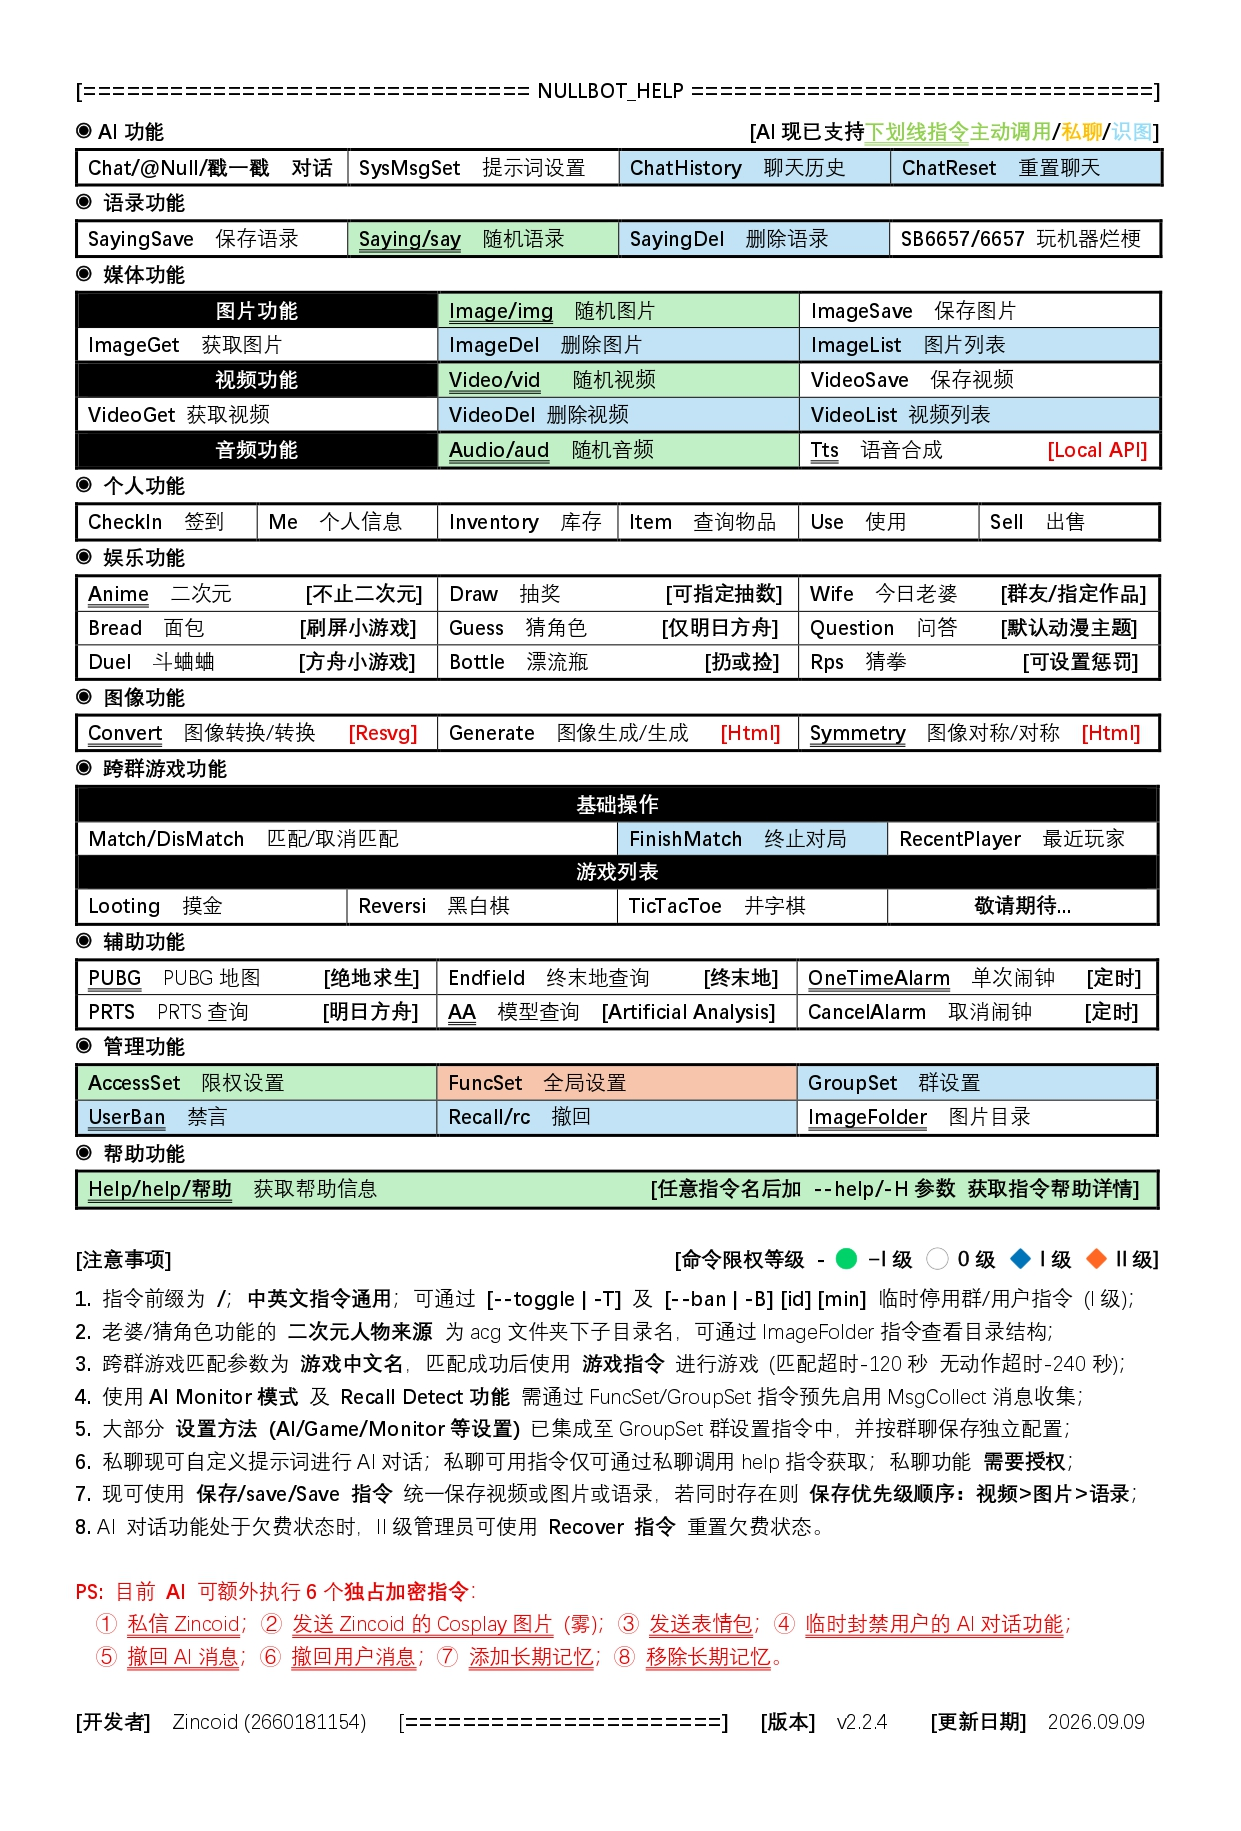
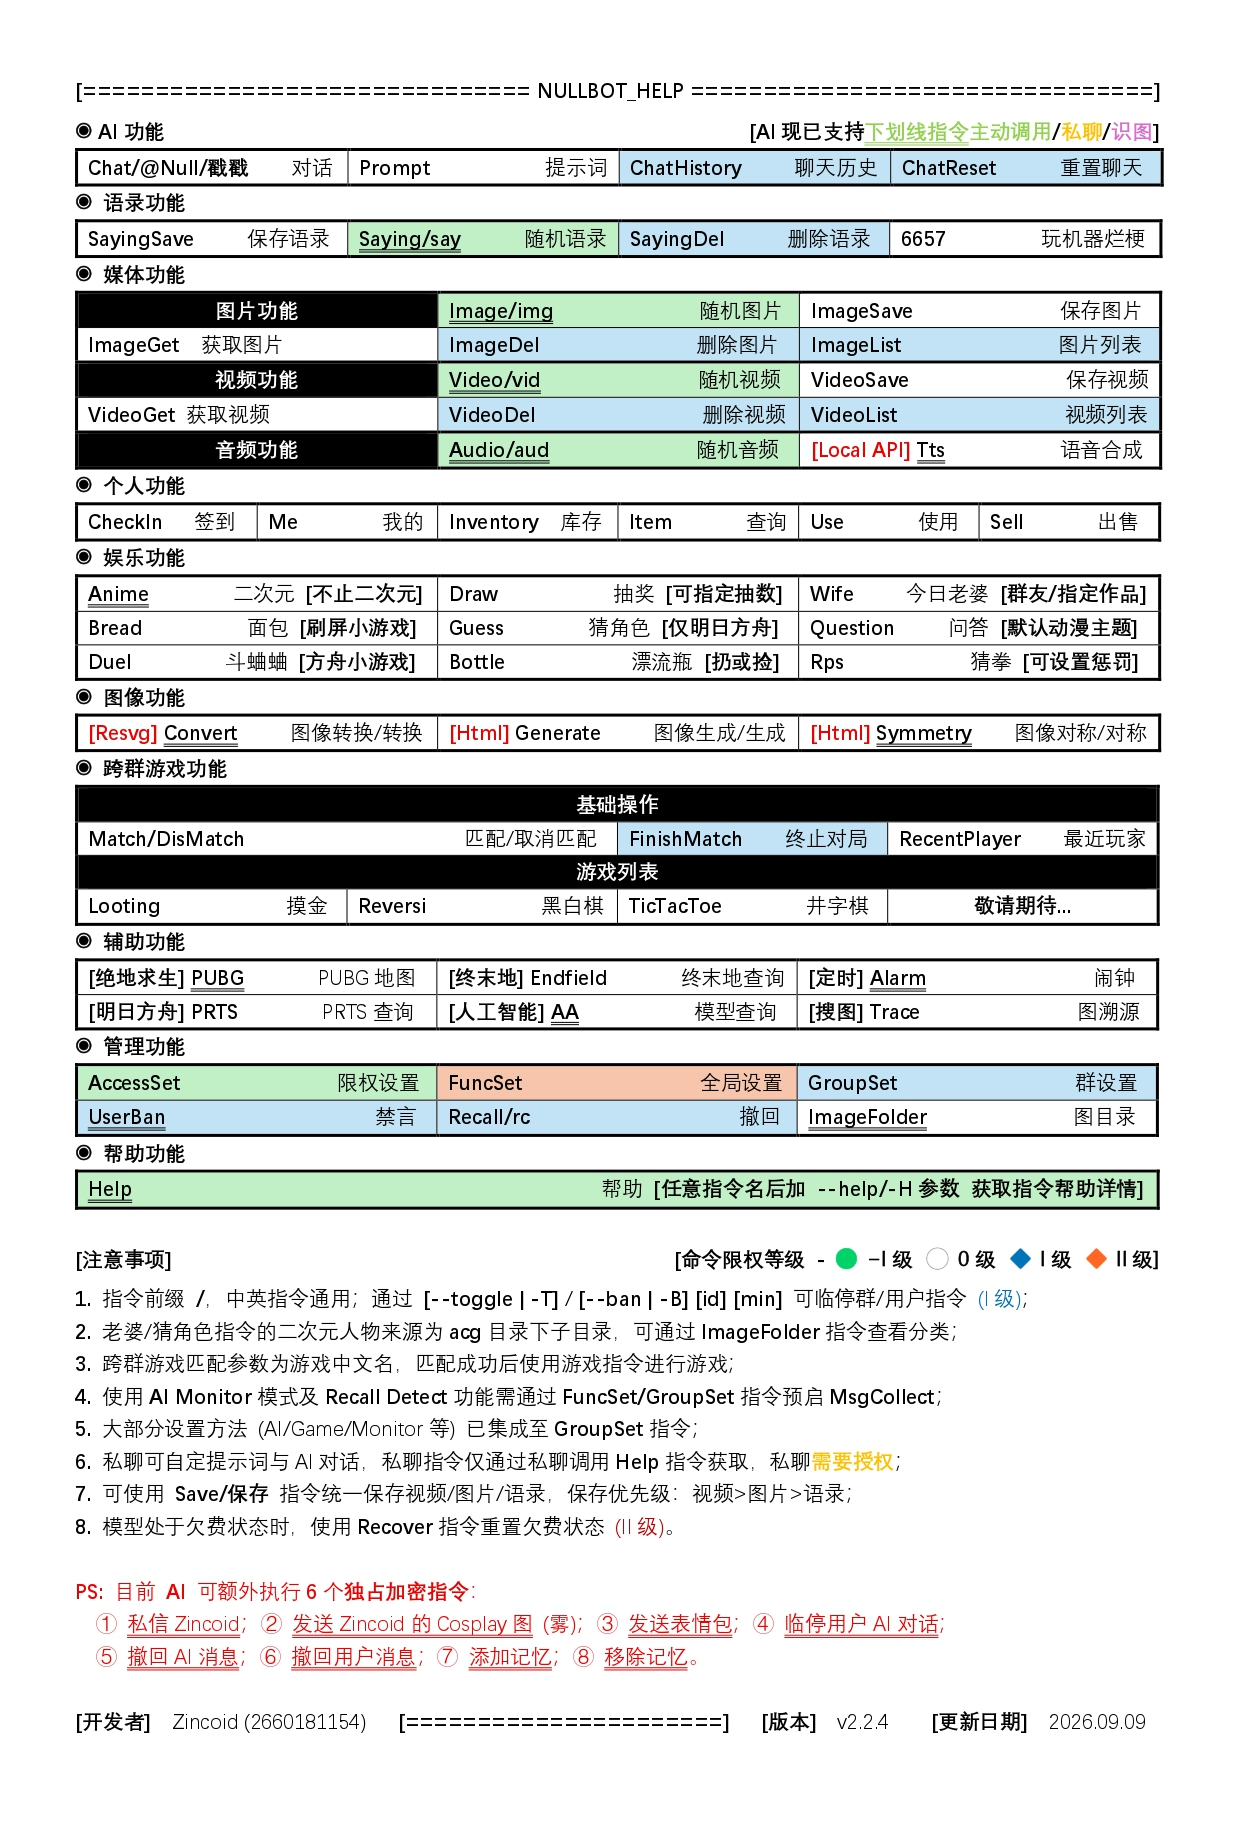
refactor(command): 重构命令结构和功能优化
- 将 OneTimeAlarmCmd 重命名为 AlarmCmd 并移动到 assist 包
- 将 HelpCmd 从 assist 包移动到 system 包
- 将 SysMsgSetCmd 重命名为 PromptCmd 并更新相关引用
- 更新多个命令的别名配置，包括 ImageFolder、ItemCmd、MeCmd 和 PUBGCmd
- 修改命令帮助信息中的功能描述和显示文本
- 调整 AI 提示词设置命令的包路径和类名
- 更新命令映射中对旧命令名称的引用

diff --git a/src/main/java/com/zincoid/nullbot/bot/command/aichat/PromptCmd.java b/src/main/java/com/zincoid/nullbot/bot/command/aichat/PromptCmd.java
@@ -16,15 +16,15 @@ import org.springframework.context.annotation.Lazy;
 import org.springframework.stereotype.Component;
 
 @Slf4j
-@CmdMapping({"SysMsgSet", "提示词设置", "提示词"})
+@CmdMapping({"Prompt", "提示词"})
 @Component
-public class SysMsgSetCmd implements Cmd {
+public class PromptCmd implements Cmd {
 
     private final QQChatClient qqChatClient;
     private final SysMsgManager sysMsgManager;
     private final UserService userService;
 
-    public SysMsgSetCmd(@Lazy QQChatClient qqChatClient, SysMsgManager sysMsgManager, UserService userService) {
+    public PromptCmd(@Lazy QQChatClient qqChatClient, SysMsgManager sysMsgManager, UserService userService) {
         this.qqChatClient = qqChatClient;
         this.sysMsgManager = sysMsgManager;
         this.userService = userService;
@@ -39,7 +39,7 @@ public class SysMsgSetCmd implements Cmd {
             String message = "ℹ当前提示词: %s".formatted(
                     sysMsgManager.getGroupMessage(groupId));
             bot.sendGroupMsg(groupId, message, false);
-            log.info("☑ [SysMsgSet] 群聊提示词已查看 -> {}", groupId);
+            log.info("☑ [Prompt] 群聊提示词已查看 -> {}", groupId);
             return;
         }
         int userAccess = userService.getAccess(userId);
@@ -54,7 +54,7 @@ public class SysMsgSetCmd implements Cmd {
             sysMsgManager.resetGroup(groupId);
             qqChatClient.clear(BotCtx.getChatId());
             bot.sendGroupMsg(groupId, "✅提示词已重置", false);
-            log.info("☑ [SysMsgSet] 群聊提示词已重置 -> {}", groupId);
+            log.info("☑ [Prompt] 群聊提示词已重置 -> {}", groupId);
             return;
         }
         if (args.hasOpt("set", "s")) {
@@ -62,7 +62,7 @@ public class SysMsgSetCmd implements Cmd {
             sysMsgManager.setGroupMessage(groupId, newMessage);
             qqChatClient.clear(BotCtx.getChatId());
             bot.sendGroupMsg(groupId, "✅提示词已设置", false);
-            log.info("☑ [SysMsgSet] 群聊提示词已设置 - {} -> {}", groupId, newMessage);
+            log.info("☑ [Prompt] 群聊提示词已设置 - {} -> {}", groupId, newMessage);
             return;
         }
         throw new BotWarnException("无此操作");
@@ -76,14 +76,14 @@ public class SysMsgSetCmd implements Cmd {
             String message = "ℹ当前提示词: %s".formatted(
                     sysMsgManager.getUserMessage(userId));
             bot.sendPrivateMsg(userId, message, false);
-            log.info("☑ [SysMsgSet] 私聊提示词已查看 -> {}", userId);
+            log.info("☑ [Prompt] 私聊提示词已查看 -> {}", userId);
             return;
         }
         if (args.hasOpt("reset", "r")) {
             sysMsgManager.resetUser(userId);
             qqChatClient.clear(BotCtx.getChatId());
             bot.sendPrivateMsg(userId, "[提示词设置] ✅已重置", false);
-            log.info("☑ [SysMsgSet] 私聊提示词已重置 -> {}", userId);
+            log.info("☑ [Prompt] 私聊提示词已重置 -> {}", userId);
             return;
         }
         if (args.hasOpt("set", "s")) {
@@ -91,7 +91,7 @@ public class SysMsgSetCmd implements Cmd {
             sysMsgManager.setUserMessage(userId, newMessage);
             qqChatClient.clear(BotCtx.getChatId());
             bot.sendPrivateMsg(userId, "[提示词设置] ✅已设置", false);
-            log.info("☑ [SysMsgSet] 私聊提示词已设置 - {} -> {}", userId, newMessage);
+            log.info("☑ [Prompt] 私聊提示词已设置 - {} -> {}", userId, newMessage);
             return;
         }
         throw new BotWarnException("无此操作");
@@ -100,17 +100,17 @@ public class SysMsgSetCmd implements Cmd {
     @Override
     public String getHelp() {
         return String.format("""
-                ◉ SysMsgSet 命令
+                ◉ Prompt 命令
                 功能: 设置AI提示词并重置历史
                 限权: %d 级
-                格式: SysMsgSet [选项]
+                格式: Prompt [选项]
 
                 选项:
                 -s,--set [文本]  设置提示词
                 -r,--reset      重置提示词
                 -v,--view       查看提示词
 
-                别名: 提示词设置/提示词
+                别名: 提示词
                 注意:
                 - 非Custom模式 变更需限权I及以上
                 - Custom模式 变更需限权0及以上""", getAccess()

diff --git a/src/main/java/com/zincoid/nullbot/bot/command/assist/AlarmCmd.java b/src/main/java/com/zincoid/nullbot/bot/command/assist/AlarmCmd.java
@@ -1,4 +1,4 @@
-package com.zincoid.nullbot.bot.command.schedule;
+package com.zincoid.nullbot.bot.command.assist;
 
 import com.mikuac.shiro.core.Bot;
 import com.mikuac.shiro.dto.event.message.GroupMessageEvent;
@@ -21,10 +21,10 @@ import java.util.List;
 import java.util.UUID;
 
 @Slf4j
-@CmdMapping({"OneTimeAlarm", "单次闹钟"})
+@CmdMapping({"Alarm", "闹钟"})
 @Component
 @RequiredArgsConstructor
-public class OneTimeAlarmCmd implements Cmd {
+public class AlarmCmd implements Cmd {
 
     private static final DateTimeFormatter FORMATTER = DateTimeFormatter.ofPattern("yyyy-MM-dd HH:mm");
     private static final List<DateTimeFormatter> FORMATTERS = Arrays.asList(
@@ -45,7 +45,7 @@ public class OneTimeAlarmCmd implements Cmd {
             if (!botTaskScheduler.cancelTask(taskId))
                 throw new BotInfoException(Emoji.INFO, "闹钟不存在");
             bot.sendGroupMsg(groupId, "✅闹钟已取消", false);
-            log.info("☑ [OneTimeAlarm] 闹钟已取消 - AlarmID: {}", alarmId);
+            log.info("☑ [Alarm] 闹钟已取消 - AlarmID: {}", alarmId);
             return;
         }
         String message = args.next();
@@ -67,16 +67,16 @@ public class OneTimeAlarmCmd implements Cmd {
             throw new BotWarnException("时间格式错误");
         }
         bot.sendGroupMsg(groupId, """
-                    ⏰单次闹钟已设置
+                    ⏰闹钟已设置
                     - AlarmID: %s
                     - Time: %s""".formatted(alarmId, alarmTime.format(FORMATTER)),
                 false
         );
-        log.info("☑ [OneTimeAlarm] 闹钟已设置 - AlarmID: {}", alarmId);
+        log.info("☑ [Alarm] 闹钟已设置 - AlarmID: {}", alarmId);
     }
 
     private LocalDateTime parseDateTime(String str) {
-        for (DateTimeFormatter formatter : OneTimeAlarmCmd.FORMATTERS) {
+        for (DateTimeFormatter formatter : AlarmCmd.FORMATTERS) {
             try {
                 return LocalDateTime.parse(str, formatter);
             } catch (DateTimeParseException e) {
@@ -89,10 +89,10 @@ public class OneTimeAlarmCmd implements Cmd {
     @Override
     public String getHelp() {
         return String.format("""
-                ◉ OneTimeAlarm 命令
-                功能: 设置单次群内提醒闹钟
+                ◉ Alarm 命令
+                功能: 设置群内提醒闹钟
                 限权: %d 级
-                用法: OneTimeAlarm [选项] [文本] [可选: QQ号]
+                用法: Alarm [选项] [文本] [可选: QQ号]
 
                 选项:
                 -t,--time=[时间]     时间模式
@@ -103,16 +103,16 @@ public class OneTimeAlarmCmd implements Cmd {
                 - 时间模式参数格式: yy-MM-ddTHH:mm
                 - 延迟模式在指定时间后触发
                 - 未设置用户时默认为自己
-                别名: 单次闹钟""", getAccess()
+                别名: 闹钟""", getAccess()
         );
     }
 
     @Override
     public String getHelpForAI() {
         return """
-                ◉ OneTimeAlarm 命令
-                功能: 设置单次群内提醒闹钟
-                用法: OneTimeAlarm [选项] [文本] [QQ号]
+                ◉ Alarm 命令
+                功能: 设置群内提醒闹钟
+                用法: Alarm [选项] [文本] [QQ号]
 
                 选项:
                 -t,--time=[时间]     时间模式
@@ -124,8 +124,8 @@ public class OneTimeAlarmCmd implements Cmd {
                 - 延迟模式在指定时间后触发
 
                 示例:
-                OneTimeAlarm --time=26-02-07T09:00 九点到了 2660181154
-                OneTimeAlarm --delay=10 十分钟了 2660181154
-                OneTimeAlarm --cancel=a1b2c3d4""";
+                Alarm --time=26-02-07T09:00 九点到了 2660181154
+                Alarm --delay=10 十分钟了 2660181154
+                Alarm --cancel=a1b2c3d4""";
     }
 }

diff --git a/src/main/java/com/zincoid/nullbot/bot/command/assist/PUBGCmd.java b/src/main/java/com/zincoid/nullbot/bot/command/assist/PUBGCmd.java
@@ -19,7 +19,7 @@ import org.springframework.stereotype.Component;
 import java.util.List;
 
 @Slf4j
-@CmdMapping({"PUBG", "PUBG地图"})
+@CmdMapping({"PUBG", "吃鸡地图"})
 @Component
 @RequiredArgsConstructor
 public class PUBGCmd implements Cmd {
@@ -53,11 +53,11 @@ public class PUBGCmd implements Cmd {
     public String getHelp() {
         return String.format("""
                 ◉ PUBG 命令
-                功能: 获取PUBG资源地图
+                功能: 获取 PUBG 资源地图
                 限权: %d 级
                 格式: PUBG [地图]
                 地图: 艾伦格/泰戈/帝斯顿/维寒迪/荣都/米拉玛
-                别名: PUBG地图""", getAccess()
+                别名: 吃鸡地图""", getAccess()
         );
     }
 
@@ -65,7 +65,7 @@ public class PUBGCmd implements Cmd {
     public String getHelpForAI() {
         return """
                 ◉ PUBG 命令
-                功能: 获取PUBG资源地图
+                功能: 获取 PUBG 资源地图
                 格式: PUBG [地图]
                 地图: 艾伦格/泰戈/帝斯顿/维寒迪/荣都/米拉玛
                 示例: PUBG 帝斯顿""";

diff --git a/src/main/java/com/zincoid/nullbot/bot/command/image/ImageFolderCmd.java b/src/main/java/com/zincoid/nullbot/bot/command/image/ImageFolderCmd.java
@@ -14,7 +14,7 @@ import org.springframework.stereotype.Component;
 import java.io.IOException;
 
 @Slf4j
-@CmdMapping({"ImageFolder", "图片目录"})
+@CmdMapping({"ImageFolder", "图目录"})
 @Component
 @RequiredArgsConstructor
 public class ImageFolderCmd implements Cmd {
@@ -28,7 +28,7 @@ public class ImageFolderCmd implements Cmd {
                 storageProperties.resolve(imagePath),
                 0
         );
-        bot.sendGroupMsg(event.getGroupId(), "[图片目录结构] \uD83D\uDCC1已获取\n" + structure, false);
+        bot.sendGroupMsg(event.getGroupId(), "[图目录结构] \uD83D\uDCC1已获取\n" + structure, false);
         log.info("☑ [ImageFolder] 图片目录已输出");
     }
 
@@ -39,7 +39,7 @@ public class ImageFolderCmd implements Cmd {
                 功能: 获取图片目录结构
                 限权: %d 级
                 格式: ImageFolder
-                别名: 图片目录""",  getAccess()
+                别名: 图目录""",  getAccess()
         );
     }
 

diff --git a/src/main/java/com/zincoid/nullbot/bot/command/game/base/ItemCmd.java b/src/main/java/com/zincoid/nullbot/bot/command/game/base/ItemCmd.java
@@ -14,7 +14,7 @@ import com.zincoid.nullbot.core.service.base.ItemService;
 import org.springframework.stereotype.Component;
 
 @Slf4j
-@CmdMapping({"Item", "查询物品", "物品"})
+@CmdMapping({"Item", "查询物品", "查询"})
 @Component
 @RequiredArgsConstructor
 public class ItemCmd implements Cmd {
@@ -37,7 +37,7 @@ public class ItemCmd implements Cmd {
                 功能: 查询物品详情
                 限权: %d 级
                 格式: Item [物品ID]
-                别名: 查询物品/物品""", getAccess()
+                别名: 查询物品/查询""", getAccess()
         );
     }
 }

diff --git a/src/main/java/com/zincoid/nullbot/bot/command/system/HelpCmd.java b/src/main/java/com/zincoid/nullbot/bot/command/system/HelpCmd.java
@@ -1,4 +1,4 @@
-package com.zincoid.nullbot.bot.command.assist;
+package com.zincoid.nullbot.bot.command.system;
 
 import com.mikuac.shiro.common.utils.MsgUtils;
 import com.mikuac.shiro.core.Bot;
@@ -32,7 +32,7 @@ public class HelpCmd implements Cmd {
         bot.sendPrivateMsg(event.getUserId(), """
                 [ ====== 可用指令 ====== ]
                 1. Help 帮助
-                2. SysMsgSet 提示词设置
+                2. Prompt 提示词
                    选项:
                    -s,--set [文本]  设置提示词
                    -r,--reset      重置提示词

diff --git a/src/main/java/com/zincoid/nullbot/bot/command/game/base/MeCmd.java b/src/main/java/com/zincoid/nullbot/bot/command/game/base/MeCmd.java
@@ -12,7 +12,7 @@ import com.zincoid.nullbot.core.service.base.UserService;
 import org.springframework.stereotype.Component;
 
 @Slf4j
-@CmdMapping({"Me", "个人信息"})
+@CmdMapping({"Me", "个人信息", "我的"})
 @Component
 @RequiredArgsConstructor
 public class MeCmd implements Cmd {
@@ -33,7 +33,7 @@ public class MeCmd implements Cmd {
                 功能: 个人信息
                 限权: %d 级
                 格式: Me
-                别名: 个人信息""", getAccess()
+                别名: 个人信息/我的""", getAccess()
         );
     }
 }

diff --git a/src/main/java/com/zincoid/nullbot/core/module/ai/chat/plugin/QQCmdAllows.java b/src/main/java/com/zincoid/nullbot/core/module/ai/chat/plugin/QQCmdAllows.java
@@ -17,7 +17,7 @@ public class QQCmdAllows {
                 "aud", "vid", "img", "say",
                 "UserBan", "SayingSave",
                 "Help", "ImageFolder", "PUBG",
-                "Anime", "OneTimeAlarm", "AA",
+                "Anime", "Alarm", "AA",
                 /* ========== 合成命令 ========== */
                 "Convert", "Symmetry", "Tts",
                 /* ========== 加密命令 ========== */

diff --git a/CHANGELOG.md b/CHANGELOG.md
@@ -6,7 +6,8 @@
 
 - 增强 AI 框架 - 添加识图支持；
 - 优化 群配置 - 迁移至数据库存储；
-- 优化 部分其他代码。
+- 新增 Trace 指令 - 图溯源；
+- 优化 部分其他代码和文本描述。
 
 ### 2026.9.6
 
